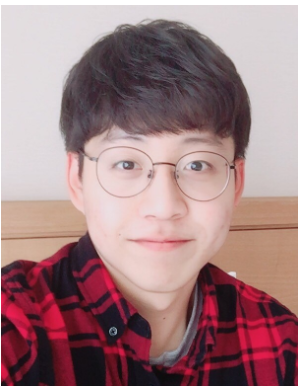
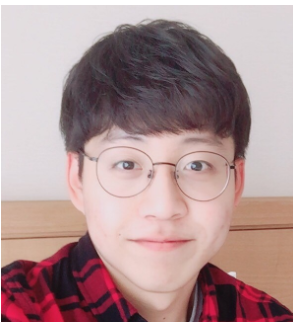
fix : image center

diff --git a/index.html b/index.html
@@ -1,6 +1,5 @@
 ---
 layout: home
-title: My website
-subtitle: This is where I will tell my friends way too much about me
+title: Be Allrounder Developer
+subtitle: 개발의 전반적인 기록을 담는 곳
 ---
-
